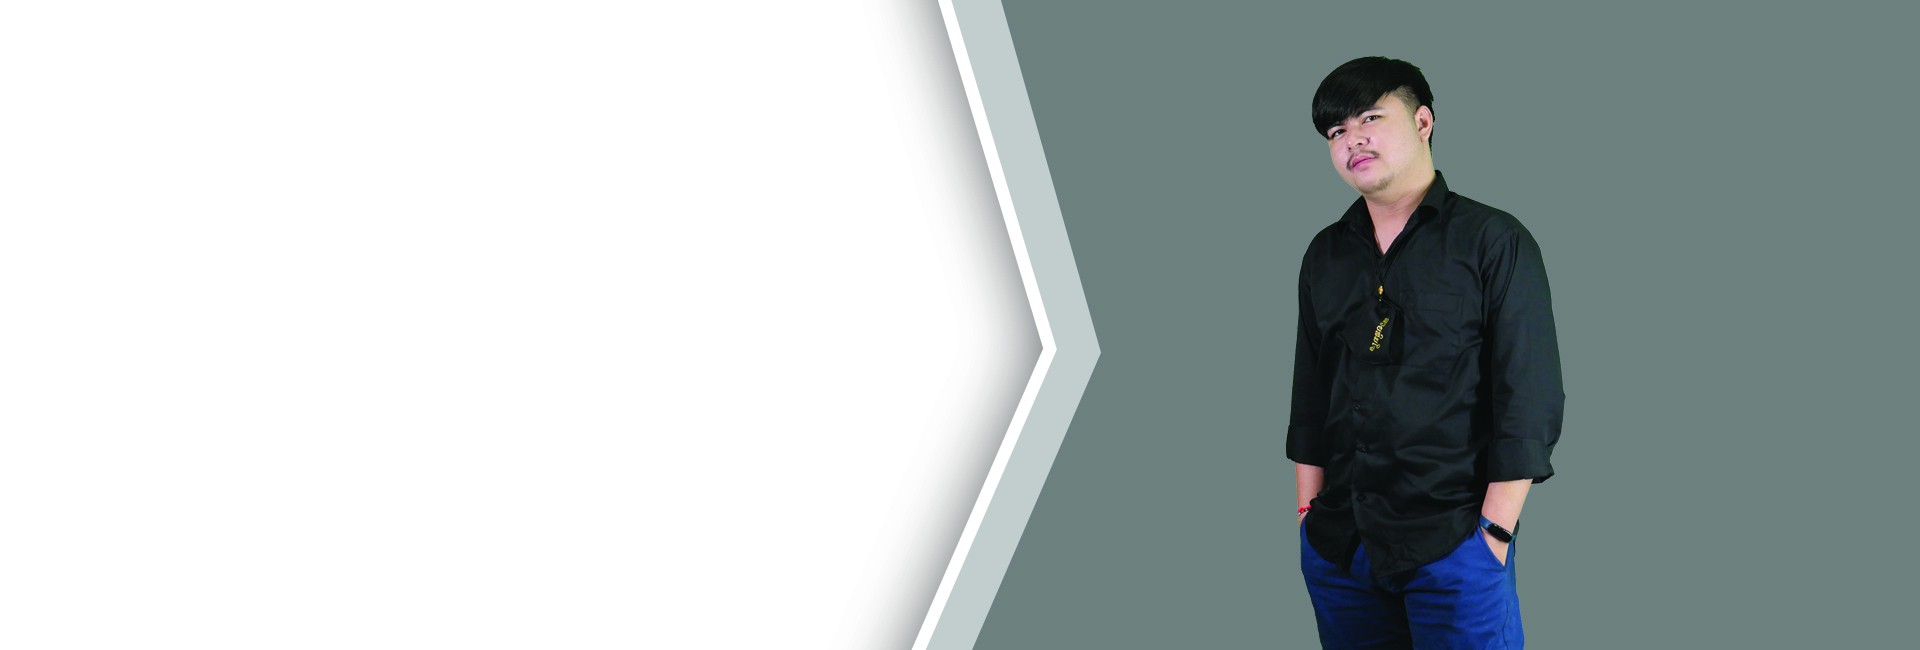
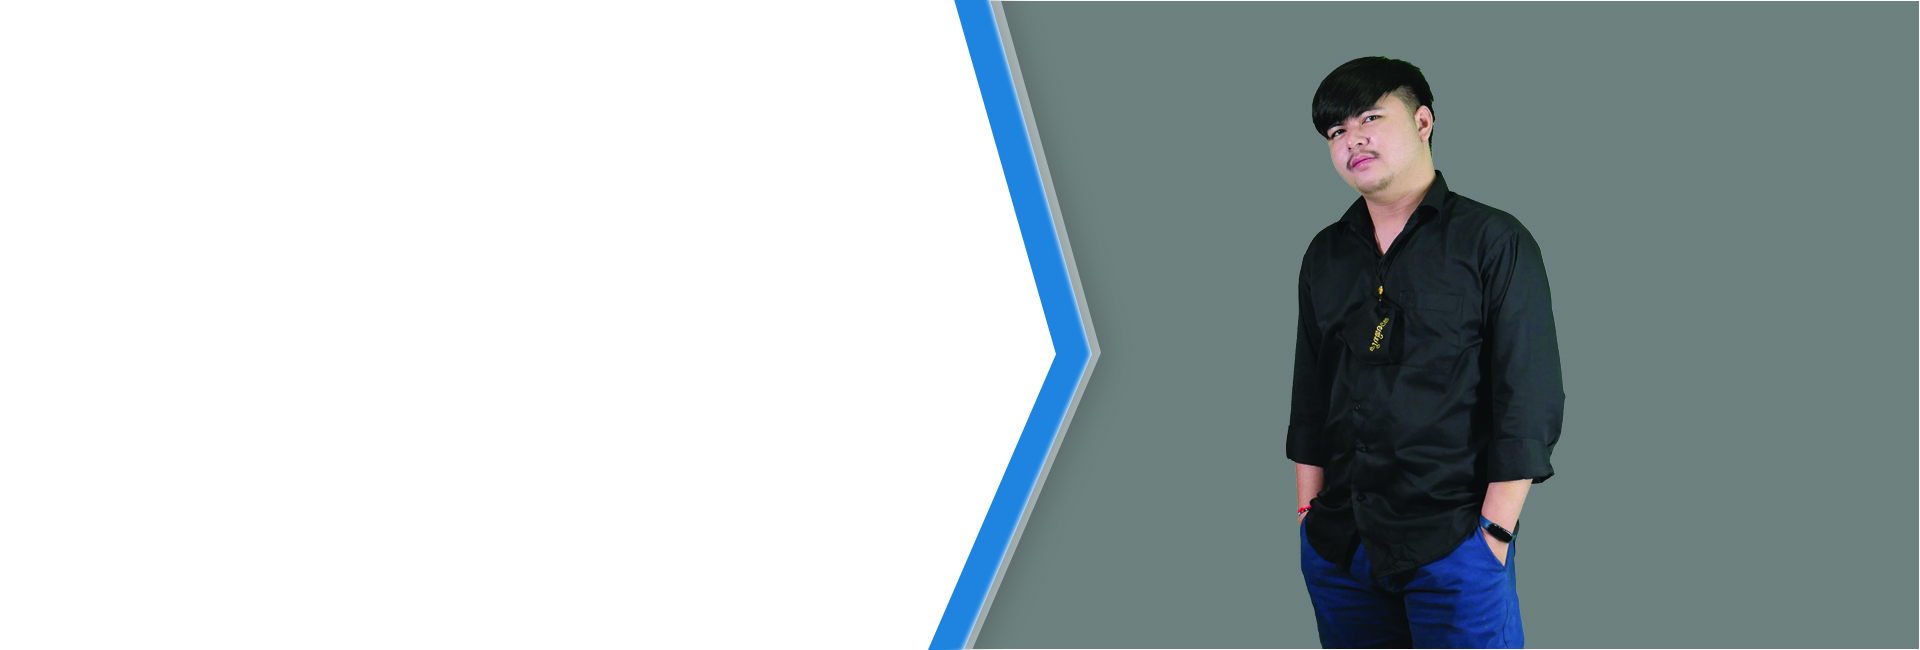
update

Changed region(s): [[0.4375, 0.0, 0.5938, 1.0], [0.9688, 0.9846, 1.0, 1.0]]

diff --git a/index.html b/index.html
@@ -21,28 +21,28 @@
                 <li><a href="">blog</a></li>
                 <li><a href="">Contact Us</a></li>
             </ul>
-            <img src="img/insee-express.png" alt="">
+            <img src="img/logo.png" alt="">
         </nav>
         <h1>Hi ... i'am Bounty SAMOUNTY</h1>
     </div>
     <div class="box-body">
 
         <div class="bullet">
-            <div class="box1">
+            <div class="box">
                 <img src="img/briefcase (1).png" alt="iconbox"><br>
                 <h5>PROJECT </h5>
             </div>
-            <div class="box2">
+            <div class="box">
                 <img src="img/coffee.png" alt="iconbox"><br>
-                <h5>PROJECT </h5>
+                <h5>CUPS OF COFFEE </h5>
             </div>
-            <div class="box3">
+            <div class="box">
                 <img src="img/satisfaction.png" alt="iconbox"><br>
-                <h5>PROJECT </h5>
+                <h5>HAPPY CLIENTS </h5>
             </div>
-            <div class="box4">
+            <div class="box">
                 <img src="img/search-engine.png" alt="iconbox"><br>
-                <h5>PROJECT </h5>
+                <h5>YEARS EXPERIENCED </h5>
             </div>
 
         </div>
@@ -63,7 +63,7 @@
                     </div>
                     <div class="name">
                         <span>Date of birth:</span>
-                        <span class="name-1"></span>Mr.NOVEMBER 10, 1999</span>
+                        <span class="name-1"></span>NOVEMBER 10, 1999</span>
                     </div>
                     <div class="name">
                         <span>Address:</span>
@@ -79,19 +79,19 @@
                     </div>
                     <div class="icon">
                         <div class="icon1">
-                            <img src="img/briefcase (1).png" alt="">
+                            <img src="img/guitar.png" alt="">
                             <a>Music</a>
                         </div>
                         <div class="icon1">
-                            <img src="img/briefcase (1).png" alt="">
+                            <img src="img/movie-clapper-open.png" alt="">
                             <a>Movie</a>
                         </div>
                         <div class="icon1">
-                            <img src="img/briefcase (1).png" alt="">
+                            <img src="img/sport.png" alt="">
                             <a>Sport</a>
                         </div>
                         <div class="icon1">
-                            <img src="img/briefcase (1).png" alt="">
+                            <img src="img/travel-and-tourism.png" alt="">
                             <a>Travel</a>
                         </div>
 
@@ -107,7 +107,59 @@
     </div>
 
 
+    </div>
 
+    <div class="text">
+        <h4>skill</h4>
+        <h1>My skill</h1>
+    </div>
+    <!-- Progess bar my skill -->
+    <div class="contriner-skill">
+
+        <div class="skill">
+            <h4>Wordpress</h4>
+            <div role="progressbar" aria-valuenow="90" aria-valuemin="0" aria-valuemax="100" style="--value:90"> </div>
+        </div>
+
+        <div class="skill">
+            <h4>HTML</h4>
+            <div role="progressbar" aria-valuenow="80" aria-valuemin="0" aria-valuemax="100" style="--value:80"> </div>
+        </div>
+
+        <div class="skill">
+            <h4>CSS</h4>
+            <div role="progressbar" aria-valuenow="75" aria-valuemin="0" aria-valuemax="100" style="--value:75"> </div>
+        </div>
+    </div>
+    <div class="contriner-skill1">
+
+        <div class="skill">
+            <h4>Photoshop</h4>
+            <div role="progressbar" aria-valuenow="90" aria-valuemin="0" aria-valuemax="100" style="--value:90"> </div>
+        </div>
+
+        <div class="skill">
+            <h4>Marketing online</h4>
+            <div role="progressbar" aria-valuenow="70" aria-valuemin="0" aria-valuemax="100" style="--value:70"> </div>
+        </div>
+
+        <div class="skill">
+            <h4>SEO</h4>
+            <div role="progressbar" aria-valuenow="75" aria-valuemin="0" aria-valuemax="100" style="--value:75"> </div>
+        </div>
+    </div>
+
+
+    </div>
+    <div class="work">
+        <div class="work1">
+            <img src="img/briefcase (1).png" alt="">
+            <a>Music</a>
+        </div>
+        <div class="work1">
+            <img src="img/briefcase (1).png" alt="">
+            <a>Music</a>
+        </div>
 
 
     </div>
@@ -120,8 +172,6 @@
 
 
 
-
-    </div>
 </body>
 
 </html>

diff --git a/style.css b/style.css
@@ -6,6 +6,7 @@
 .contriner {
     width: 100%;
     height: 650px;
+
     background-image: url(img/atee.jpg);
     background-size: cover;
 
@@ -13,6 +14,7 @@
 
 }
 
+/* header */
 nav {
     width: 100%;
     height: 50px;
@@ -35,7 +37,7 @@ nav ul li {
 }
 
 nav ul li:hover {
-    background-color: rgb(0, 138, 202);
+    background-color: rgb(0, 117, 172);
     border-radius: 15px;
 }
 
@@ -46,7 +48,7 @@ nav ul li a {
 }
 
 nav img {
-    width: 50px;
+    width: 100px;
     float: left;
     margin-left: 500px;
 }
@@ -65,6 +67,8 @@ h5 {
 
 }
 
+/* end header */
+/* body-bullet */
 .box-body {
     background-color: rgb(255, 255, 255);
     width: 100%;
@@ -76,7 +80,7 @@ h5 {
 
 .bullet {
     display: flex;
-    justify-content: space-between;
+    justify-content: space-around;
     padding: 15px;
     margin: 0 auto;
 }
@@ -87,11 +91,16 @@ h5 {
 
 }
 
-.bullet h5 {
-    color: rgb(0, 106, 192);
-    padding: 33px;
+.box h5 {
+    color: rgb(0, 117, 172);
+    text-align: center;
+    color: rgb(0, 117, 172);
+
+    margin: 5px 0px 20px 0px;
+    padding: 50px 0px 0px 0px;
 }
 
+/* abouts-me */
 .abouts {
     display: flex;
     justify-content: space-around;
@@ -113,7 +122,7 @@ h5 {
 
 .my-intro h2 {
     padding: 90px 30px 30px;
-    color: rgb(0, 94, 182);
+    color: rgb(0, 117, 172);
 }
 
 .intro {
@@ -132,8 +141,143 @@ h5 {
 }
 
 .icon img {
-    width: 50px;
-    height: 50px;
+    width: 30px;
+    height: 30px;
 
     padding: 10px;
+}
+
+.icon a {
+    display: flex;
+    justify-content: space-around;
+}
+
+.text h1 {
+    text-align: center;
+    color: rgb(0, 117, 172);
+
+    margin: 5px 0px 20px 0px;
+    padding: 50px 0px 0px 0px;
+}
+
+.text h4 {
+    text-align: center;
+    color: rgb(75, 75, 75);
+    margin: 100px 0px 0px 0px;
+    padding: 80px 0px 0px 0px;
+    font-size: 28px;
+}
+
+/* my skill  */
+.contriner-skill {
+    display: flex;
+    justify-content: space-around;
+    width: 100%;
+    max-width: 1280px;
+    margin: 0 auto;
+    padding: 10px 0px 50px 0px;
+
+}
+
+.contriner-skill1 {
+    display: flex;
+    justify-content: space-around;
+    width: 100%;
+    max-width: 1280px;
+    margin: 0 auto;
+
+}
+
+.skill {
+    background: rgb(201, 201, 201);
+    padding-left: 80px;
+    padding-right: 80px;
+    padding-bottom: 80px;
+    position: relative;
+    border-radius: 15px;
+
+
+}
+
+.skill h4 {
+    padding: 30px;
+    text-align: center;
+    color: rgb(5, 5, 5);
+}
+
+
+
+@keyframes growProgressBar {
+    0%, 33% {
+        --pgPercentage: 0;
+    }
+
+    100% {
+        /* --pgPercentage: var(--value); */
+    }
+}
+
+
+/* .contriner-skill h4 {
+    display: flex;
+    justify-content: space-around;
+
+
+} */
+
+/* @property --pgPercentage {
+    syntax: '<number>';
+    inherits: false;
+    initial-value: 0;
+} */
+/* progess bar */
+div[role="progressbar"] {
+    --size: 12rem;
+    --fg: rgb(0, 118, 172);
+
+    --bg: #def;
+    --pgPercentage: var(--value);
+    animation: growProgressBar 3s 1 forwards;
+    width: var(--size);
+    height: var(--size);
+    border-radius: 50%;
+    display: grid;
+    place-items: center;
+    background:
+        radial-gradient(closest-side, rgb(185, 185, 185) 90%, transparent 0 99.9%, white 0),
+        conic-gradient(var(--fg) calc(var(--pgPercentage) * 1%), var(--bg) 0);
+    /* font-family: Helvetica, Arial, sans-serif; */
+    font-size: calc(var(--size) / 5);
+    color: rgb(78, 78, 78)
+}
+
+div[role="progressbar"]::before {
+    counter-reset: percentage var(--value);
+    content: counter(percentage) '%';
+}
+
+/* progress bar end */
+/* work-exprience */
+
+.work {
+    display: flex;
+    justify-content: space-around;
+    padding: 30px 0px 50px 0px;
+}
+
+
+
+.work1 img {
+    width: 50px;
+    height: 50px;
+    padding: 10px;
+    justify-content: space-around;
+
+
+}
+
+.work1 a {
+    text-align: center;
+    padding: 100px;
+    justify-content: space-around;
 }
